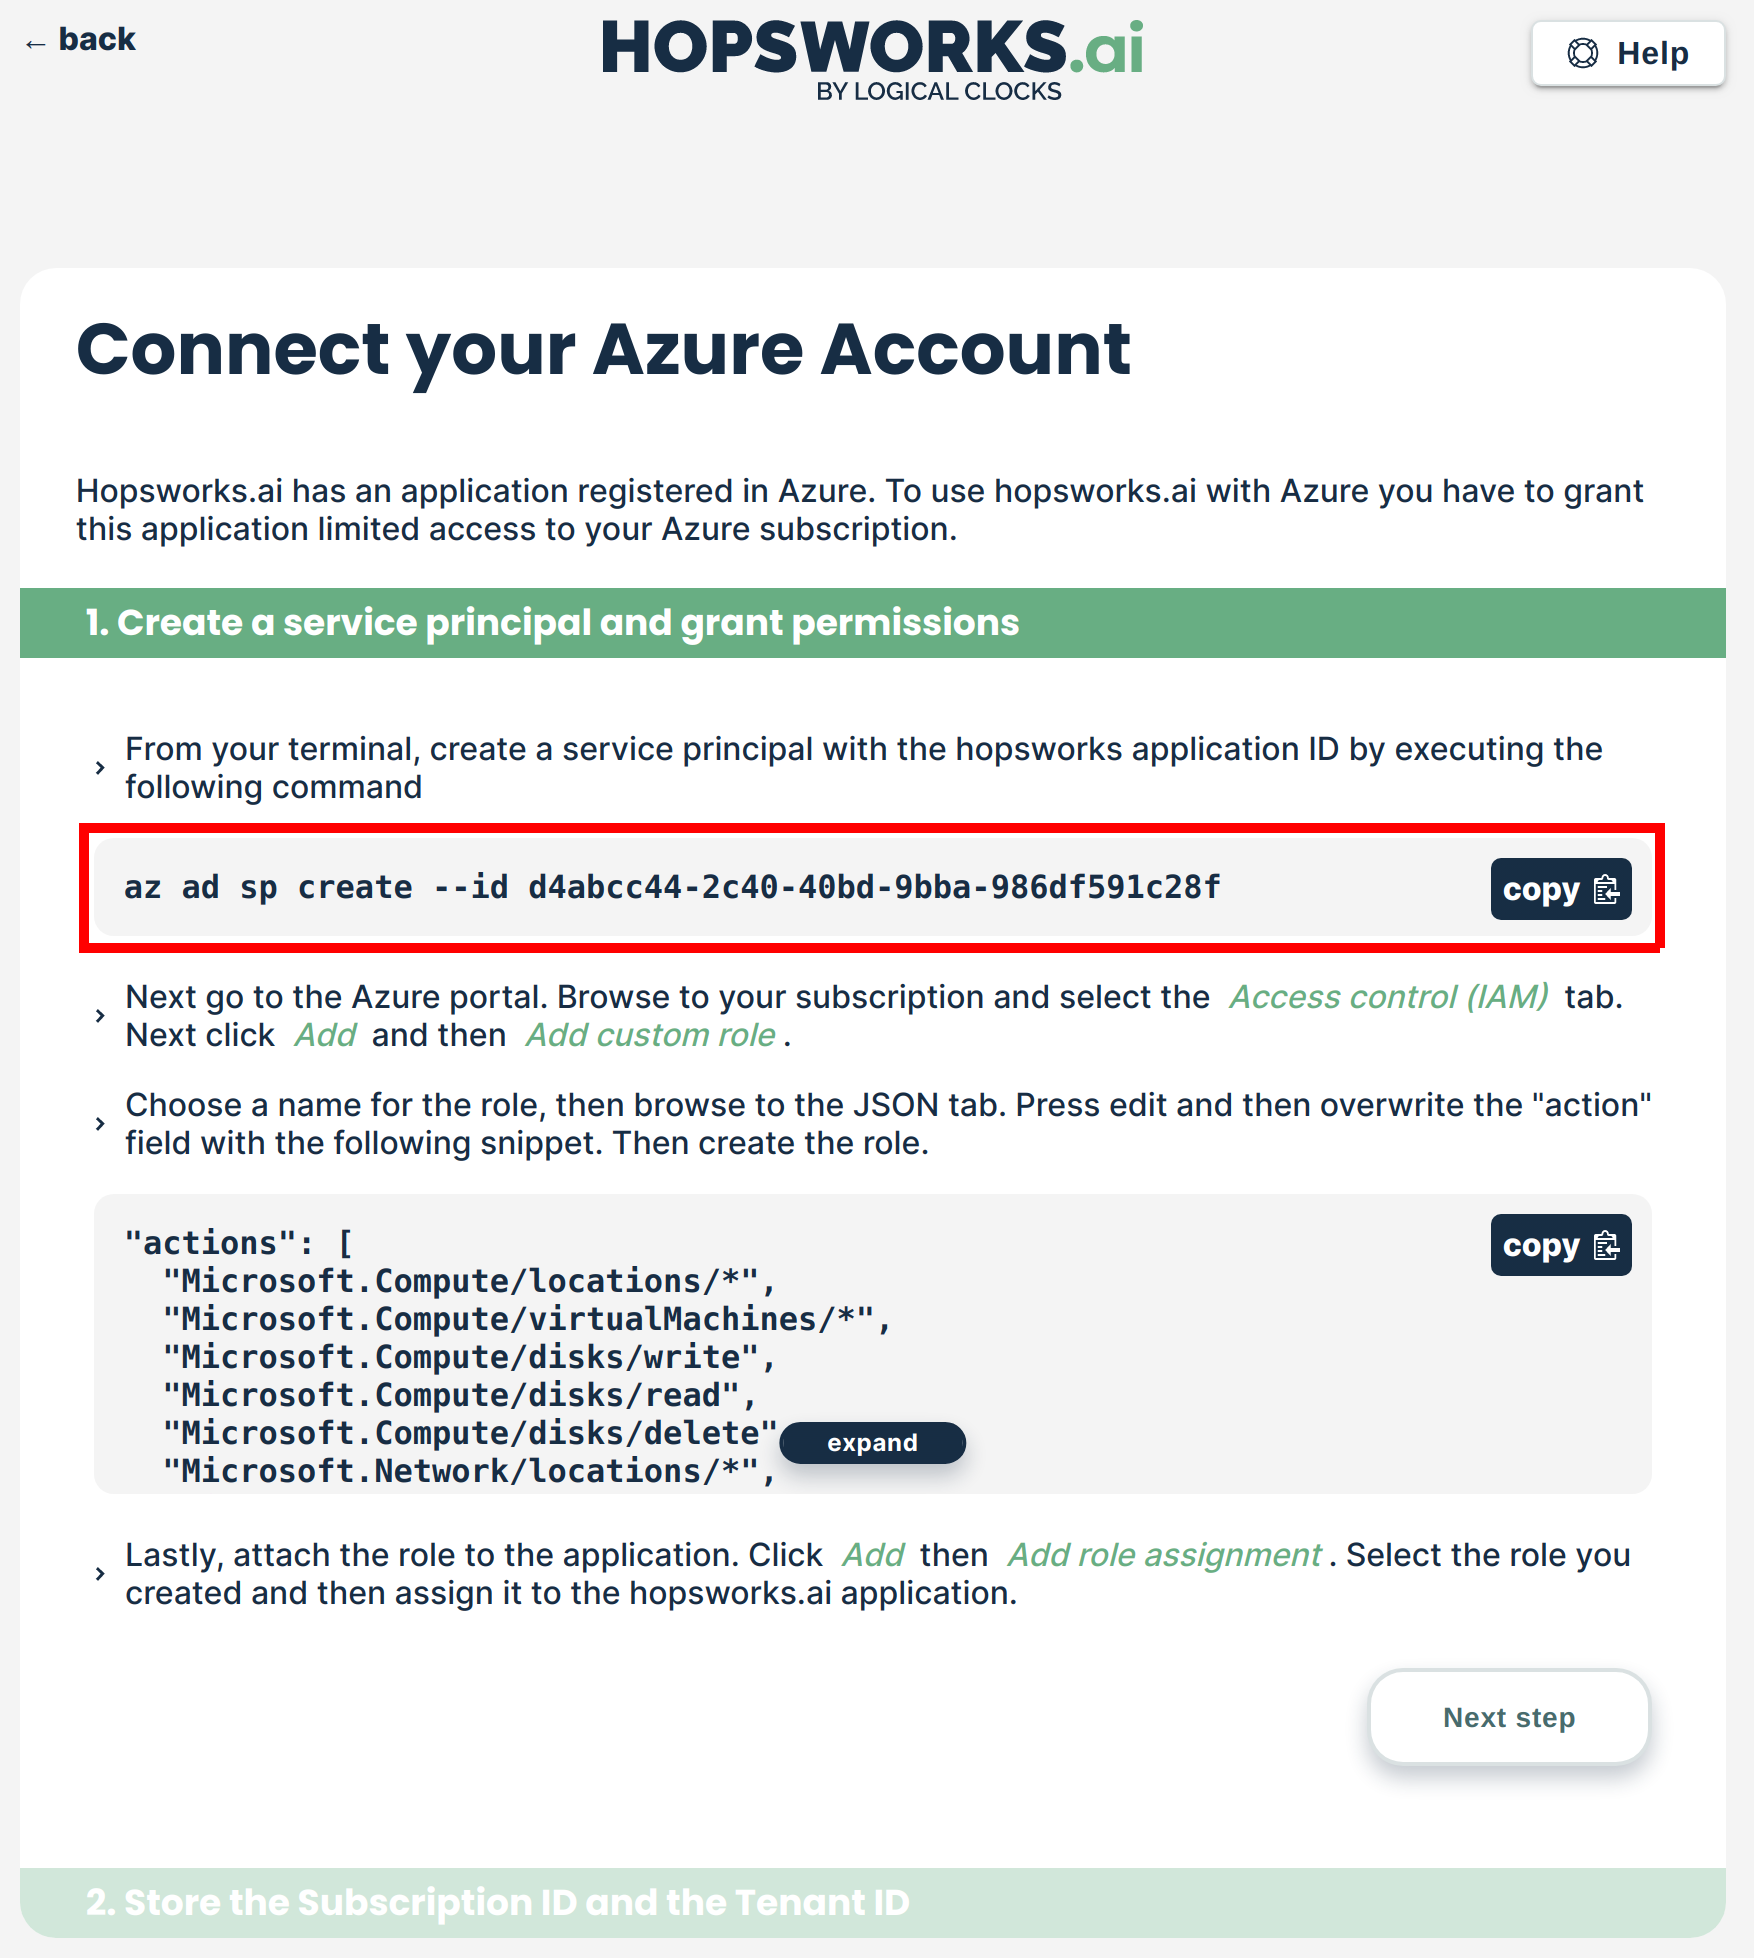
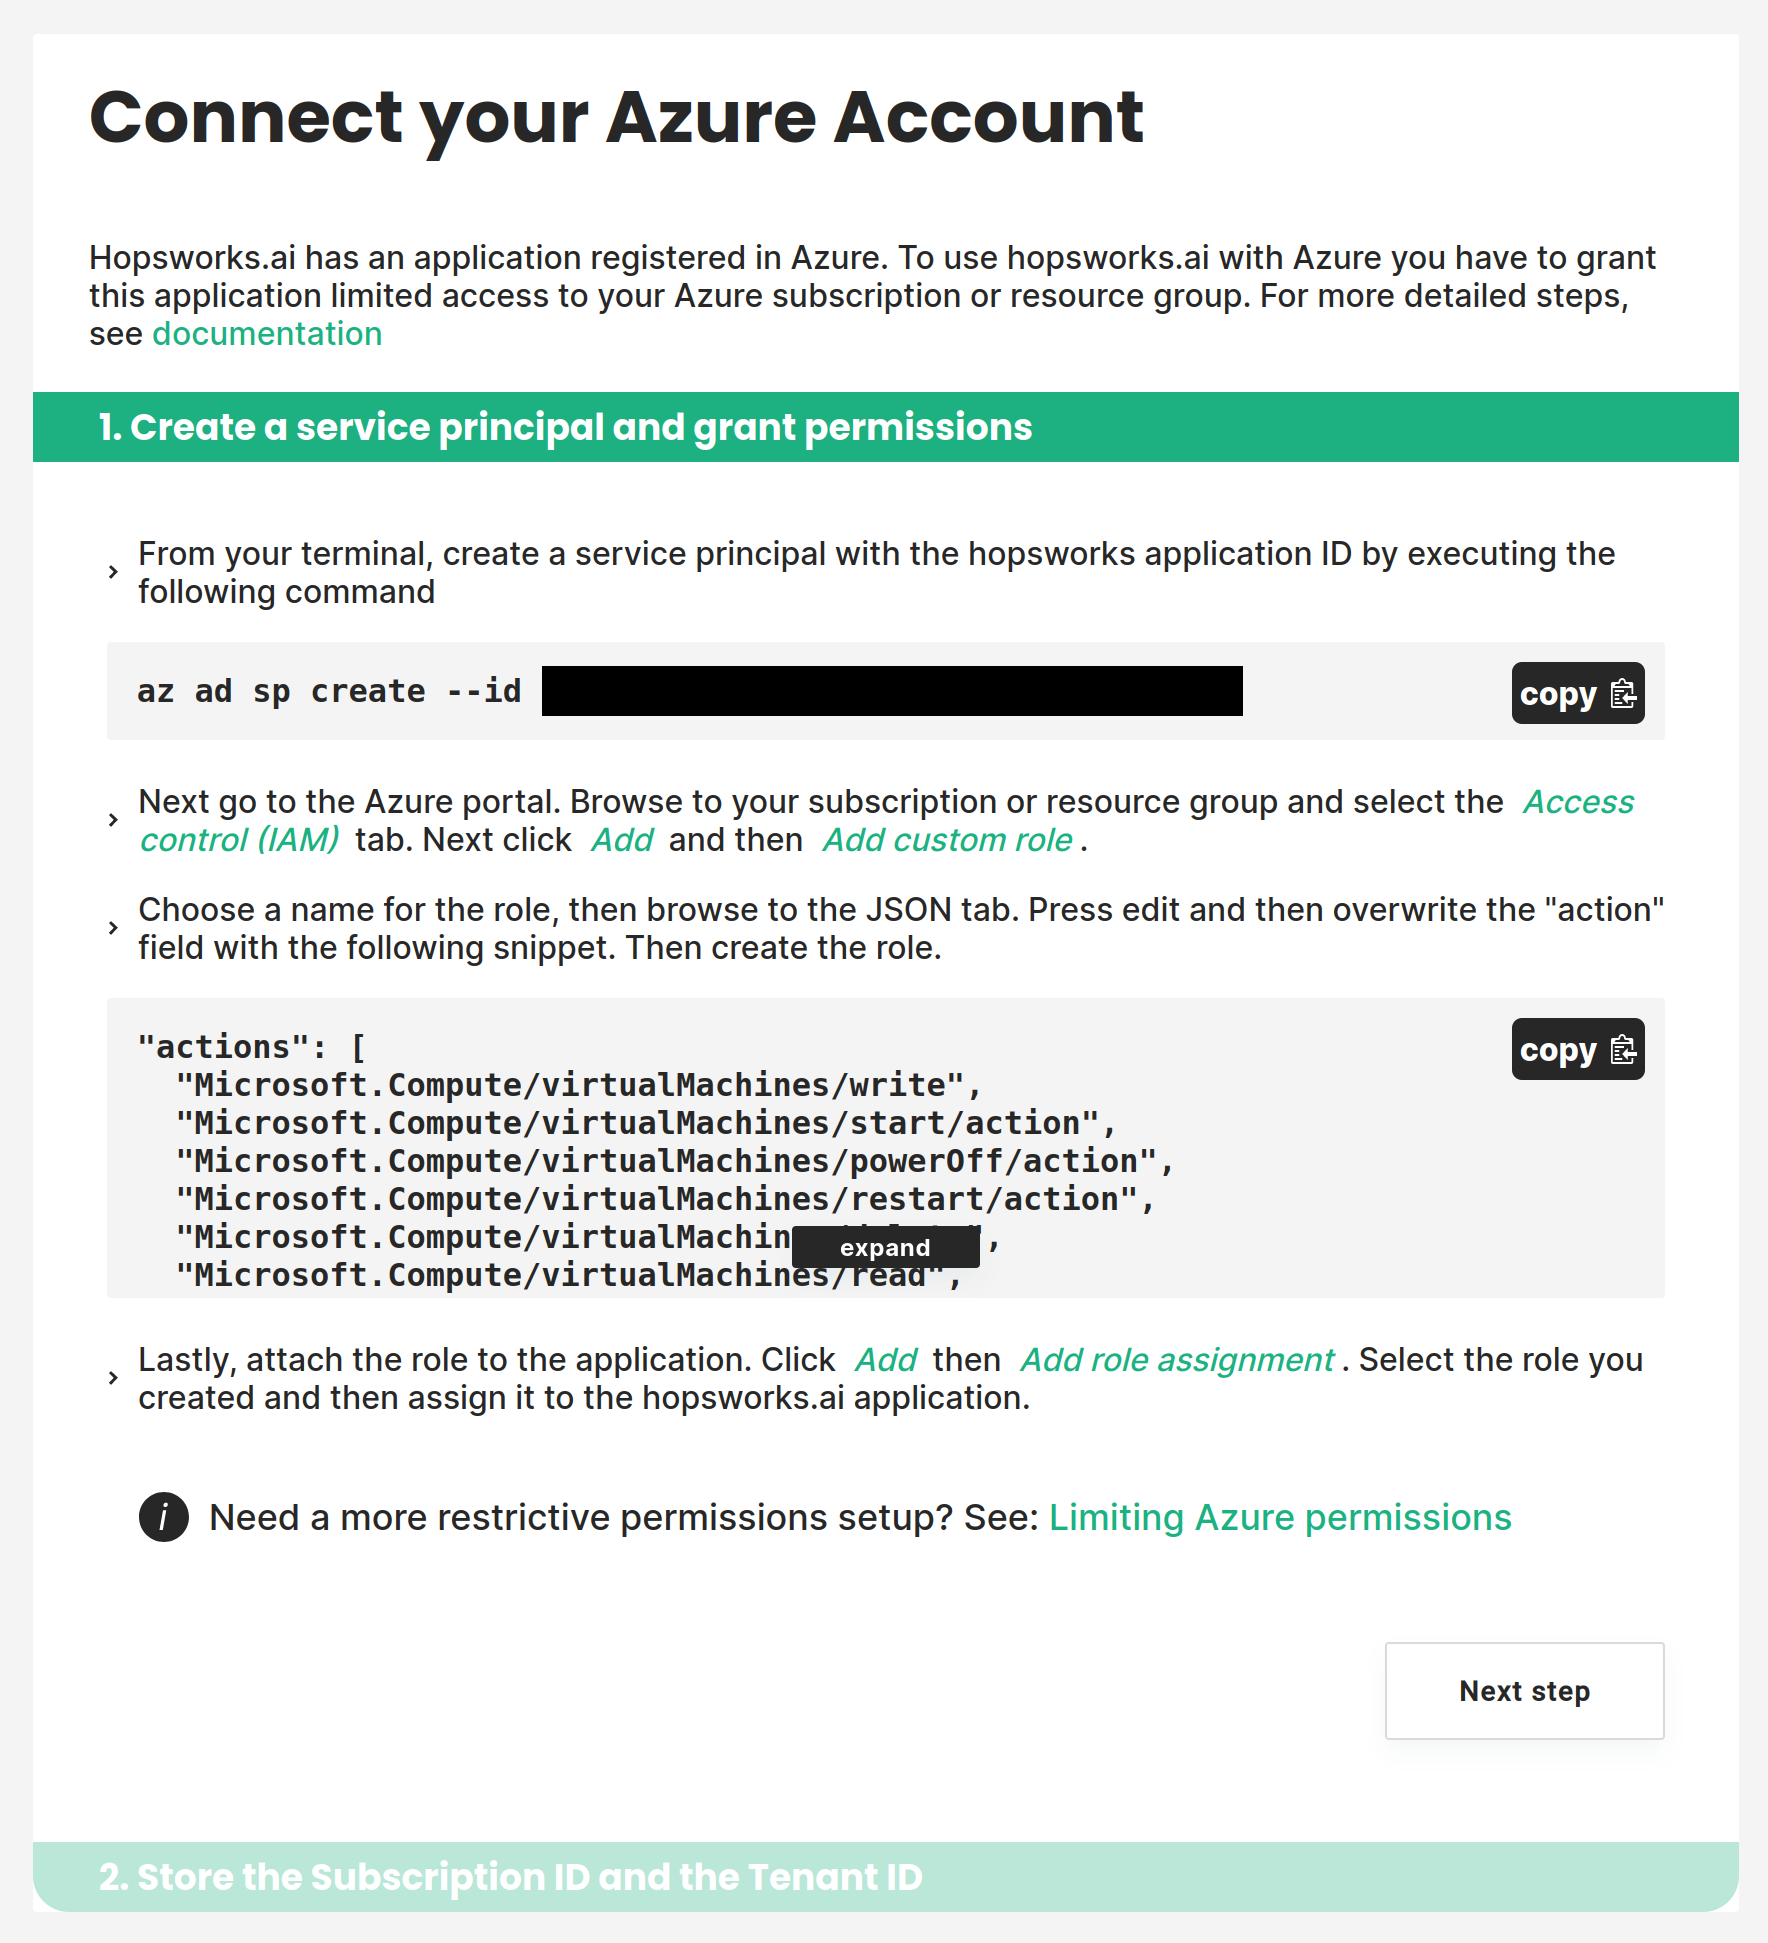
fix for review

diff --git a/docs/setup_installation/azure/getting_started.md b/docs/setup_installation/azure/getting_started.md
@@ -84,7 +84,7 @@ In [managed.hopsworks.ai](https://managed.hopsworks.ai/) click on *Connect to Az
     it is possible to limit the permissions that are set up during this phase. For more details see [restrictive-permissions](restrictive_permissions.md).
 <p align="center">
   <figure>
-    <img style="border: 1px solid #000;width:700px" src="../../../assets/images/setup_installation/managed/azure/connect-azure-0.png" alt="Cloud account settings">
+    <img style="border: 1px solid #000;width:700px" src="../../../assets/images/setup_installation/managed/azure/connect-azure-1.png" alt="Cloud account settings">
     <figcaption>Cloud account settings</figcaption>
   </figure>
 </p>
